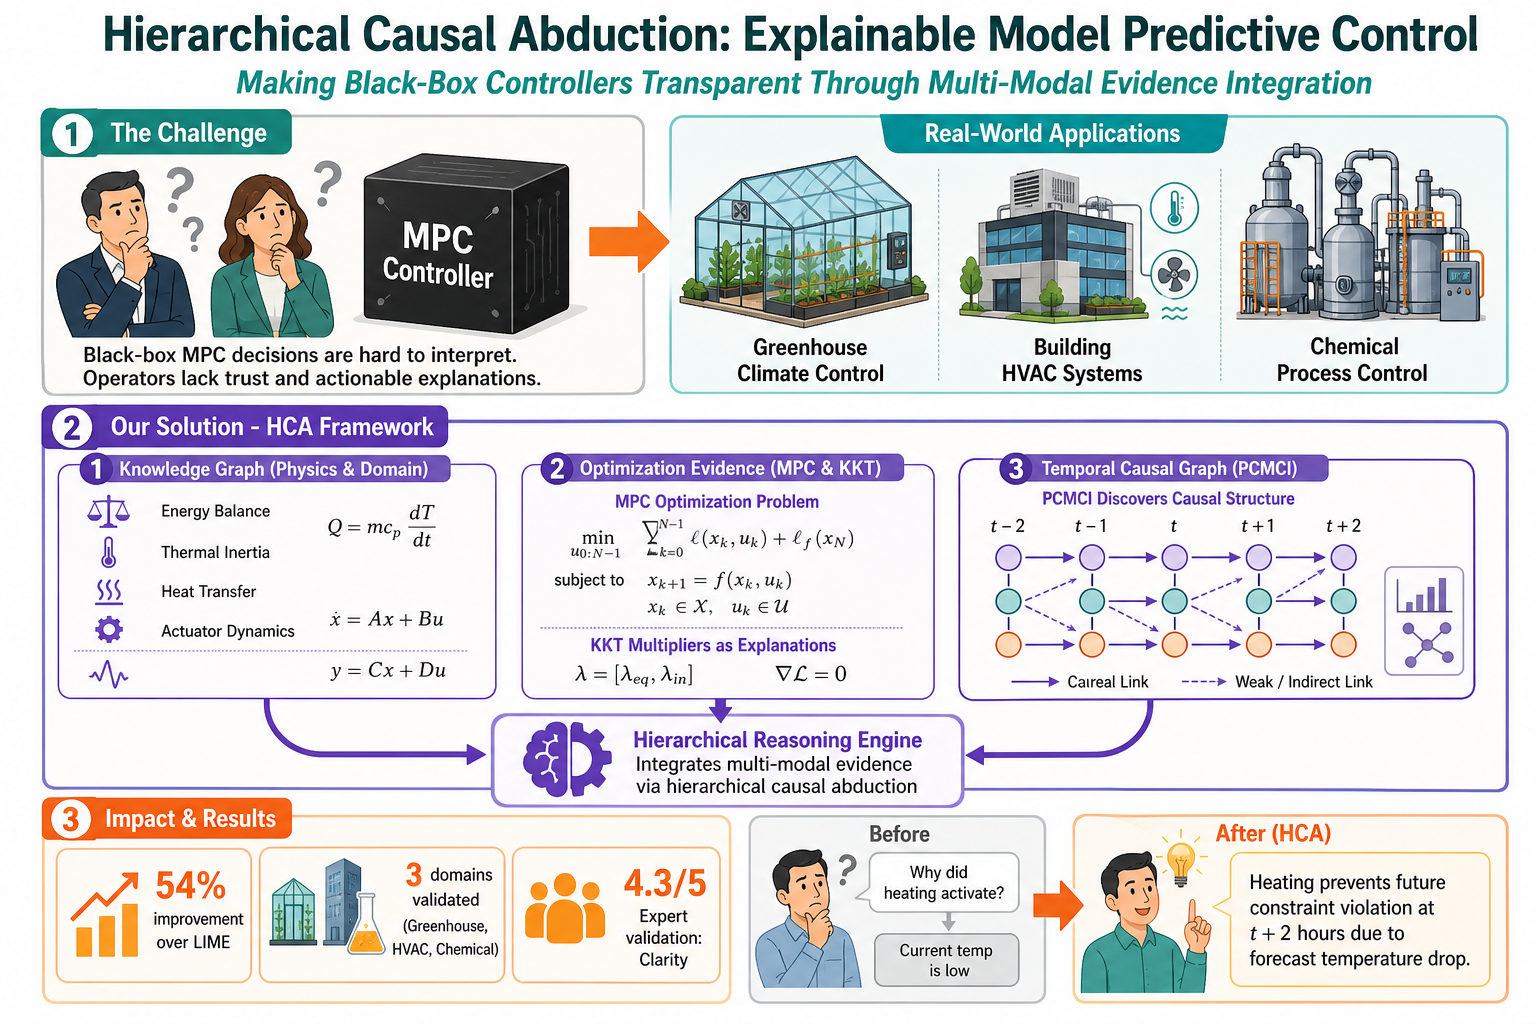
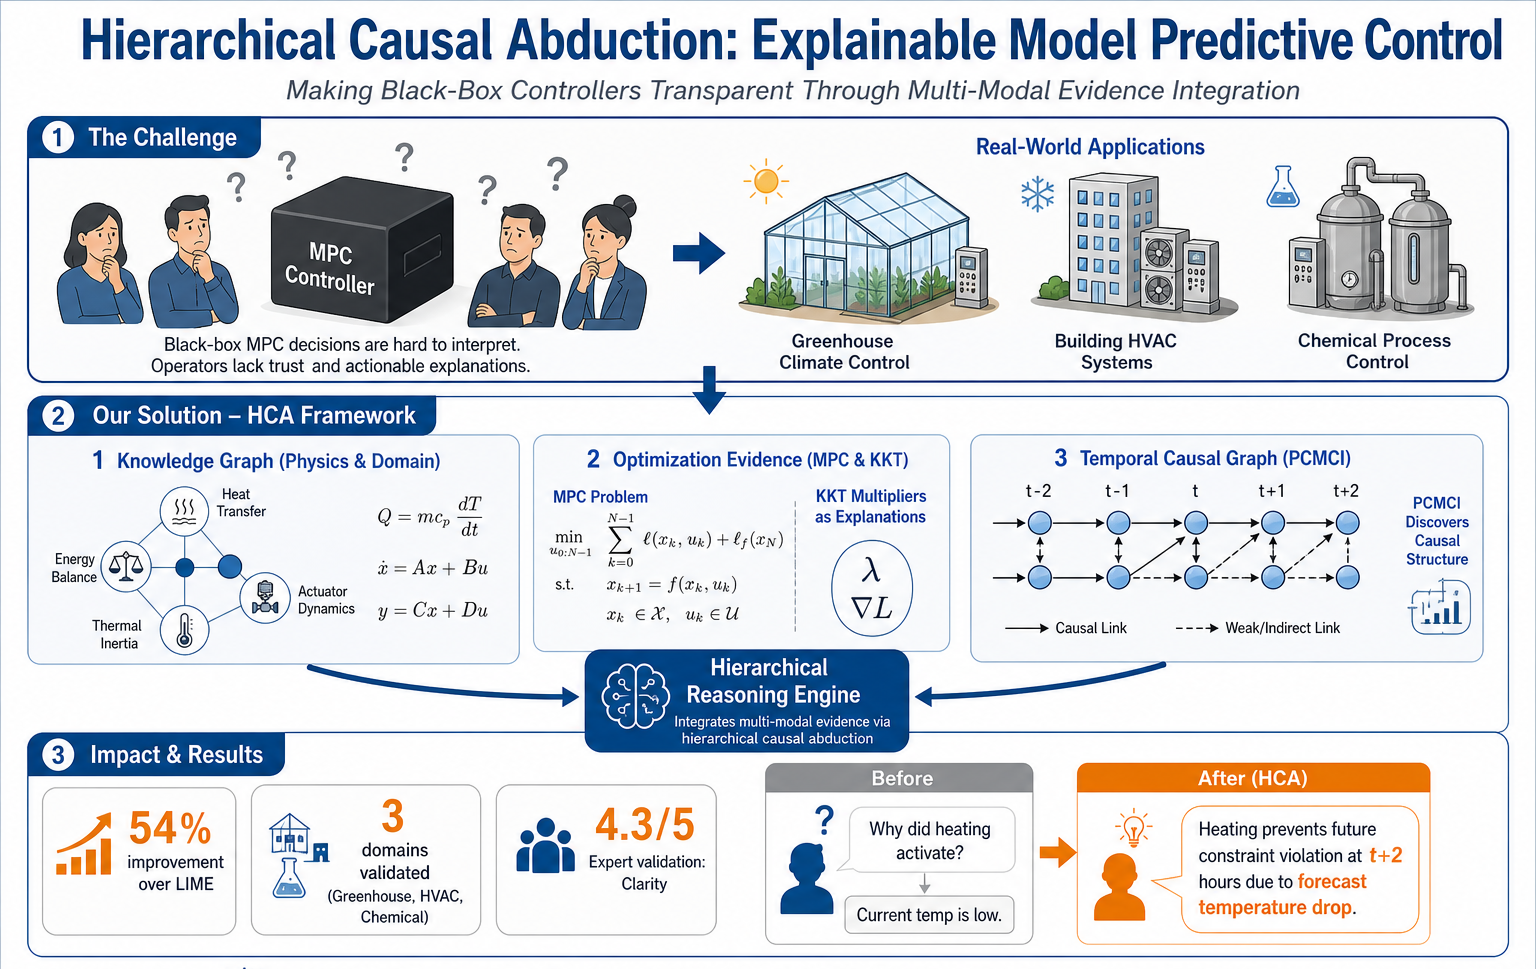
posts: swap HCA summary figure; revert headline to 53%

diff --git a/_posts/2026-05-05-icml-2026-acceptance.md b/_posts/2026-05-05-icml-2026-acceptance.md
@@ -10,11 +10,11 @@ Quick note that our paper, Hierarchical Causal Abduction: A Foundation Framework
 
 ![Hierarchical Causal Abduction: a one-figure summary of the framework, the three evidence streams, and the headline results.]({{ '/assets/img/hca-icml2026.png' | relative_url }})
 
-The figure above is the one-page version of the paper. The black-box MPC controller on the top left is the problem, the operators next to it are the audience, and the three panels in the middle are the framework. Panel one is the physics and domain knowledge encoded as a graph. Panel two is the optimiser's own KKT structure used as evidence about which constraints actually drove the action. Panel three is the temporal causal graph learned from recent data with PCMCI. The hierarchical reasoning engine in the centre is the part that combines the three streams into a single auditable chain. The bottom row is what comes out the other side, a 54 percent improvement over LIME, validation across three domains, and an expert clarity score of 4.3 out of 5. The before-and-after on the right is the part that matters most to me, an operator going from "why did heating activate" to a forward-looking explanation about preventing a constraint violation two hours from now.
+The figure above is the one-page version of the paper. The black-box MPC controller on the top left is the problem, the operators next to it are the audience, and the three panels in the middle are the framework. Panel one is the physics and domain knowledge encoded as a graph. Panel two is the optimiser's own KKT structure used as evidence about which constraints actually drove the action. Panel three is the temporal causal graph learned from recent data with PCMCI. The hierarchical reasoning engine in the centre is the part that combines the three streams into a single auditable chain. The bottom row is what comes out the other side, a 53 percent improvement over LIME, validation across three domains, and an expert clarity score of 4.3 out of 5. The before-and-after on the right is the part that matters most to me, an operator going from "why did heating activate" to a forward-looking explanation about preventing a constraint violation two hours from now.
 
 ICML 2026 received 23,918 submissions and accepted 6,352 of them, which puts the acceptance rate around 26.6 percent. I am genuinely thankful that this work made it through. The community of reviewers around explainable control at top ML venues is small and rigorous, and getting useful feedback there is itself a privilege.
 
-The short version of the paper. We propose a framework that builds explanations for model predictive control by combining three things, a physics knowledge graph that captures what the operator already knows, the KKT structure of the controller's own optimisation as evidence about which constraints actually drove the action, and a temporal causal graph learned from recent operating data. A hierarchical causal abduction procedure puts the three together and produces explanations that are auditable at three different levels, the binding constraint, the physical mechanism, and the data-grounded check. We test it on greenhouse climate, building HVAC, and chemical process control, and we improve explanation accuracy by 54 percent over LIME on our benchmark.
+The short version of the paper. We propose a framework that builds explanations for model predictive control by combining three things, a physics knowledge graph that captures what the operator already knows, the KKT structure of the controller's own optimisation as evidence about which constraints actually drove the action, and a temporal causal graph learned from recent operating data. A hierarchical causal abduction procedure puts the three together and produces explanations that are auditable at three different levels, the binding constraint, the physical mechanism, and the data-grounded check. We test it on greenhouse climate, building HVAC, and chemical process control, and we improve explanation accuracy by 53 percent over LIME on our benchmark.
 
 There is a longer companion post on this blog that walks through the framework section by section, including the failure modes the design was meant to block and the limitations we are still working on. If you came here for the technical version, that one is the right next click.
 

diff --git a/_posts/2026-05-06-hierarchical-causal-abduction-walkthrough.md b/_posts/2026-05-06-hierarchical-causal-abduction-walkthrough.md
@@ -38,7 +38,7 @@ The result is a structured explanation with three layers, the constraint that is
 
 What the experiments actually show
 
-We ran the framework on three domains, greenhouse climate control, building HVAC, and chemical process control. Each domain has its own knowledge graph and its own controller, but the reasoning engine is the same. The headline number is that the explanations the framework produces match expert annotations on a held-out set with 54 percent higher accuracy than LIME. The number itself is less important than what is hiding behind it. LIME is doing feature attribution and we are doing constraint and mechanism reasoning. The 54 percent gap is partly LIME being asked the wrong question, and we say so in the paper. The more honest comparison is against ablations of our own framework, where we drop one of the three evidence streams and watch what breaks.
+We ran the framework on three domains, greenhouse climate control, building HVAC, and chemical process control. Each domain has its own knowledge graph and its own controller, but the reasoning engine is the same. The headline number is that the explanations the framework produces match expert annotations on a held-out set with 53 percent higher accuracy than LIME. The number itself is less important than what is hiding behind it. LIME is doing feature attribution and we are doing constraint and mechanism reasoning. The 53 percent gap is partly LIME being asked the wrong question, and we say so in the paper. The more honest comparison is against ablations of our own framework, where we drop one of the three evidence streams and watch what breaks.
 
 The ablations are where the design pays for itself. Without the optimiser evidence, the explanations become physics fiction, plausible but unconnected to the actual decision. Without the knowledge graph, the explanations become data archaeology, statistically correct but physically meaningless. Without the temporal causal graph, the explanations become brittle to model error. The three streams are not redundant. Each of them blocks a specific failure mode that the other two cannot.
 
@@ -48,7 +48,7 @@ Limitations and the parts we are still chewing on
 
 The honest list is short and I would rather you hear it from me than discover it on your own.
 
-The knowledge graph is hand-curated, which is fine for one domain at a time but does not scale to a fleet. The temporal causal discovery is run offline on windows of data, not online, and the cost of refreshing it is non-trivial. The framework assumes the optimiser is solving the problem you think it is solving, which is true in our setups and not always true in deployed industrial control. Finally, the 54 percent number is on a benchmark we constructed; we are working on broader benchmarks and would welcome collaboration on that front.
+The knowledge graph is hand-curated, which is fine for one domain at a time but does not scale to a fleet. The temporal causal discovery is run offline on windows of data, not online, and the cost of refreshing it is non-trivial. The framework assumes the optimiser is solving the problem you think it is solving, which is true in our setups and not always true in deployed industrial control. Finally, the 53 percent number is on a benchmark we constructed; we are working on broader benchmarks and would welcome collaboration on that front.
 
 The next step we are excited about is dropping the hand-curation. Mechanistic interpretability of domain-adapted language models gives us a path to extracting something knowledge-graph-shaped directly from a model that has read the relevant literature. That is a separate post, and a separate paper.
 
